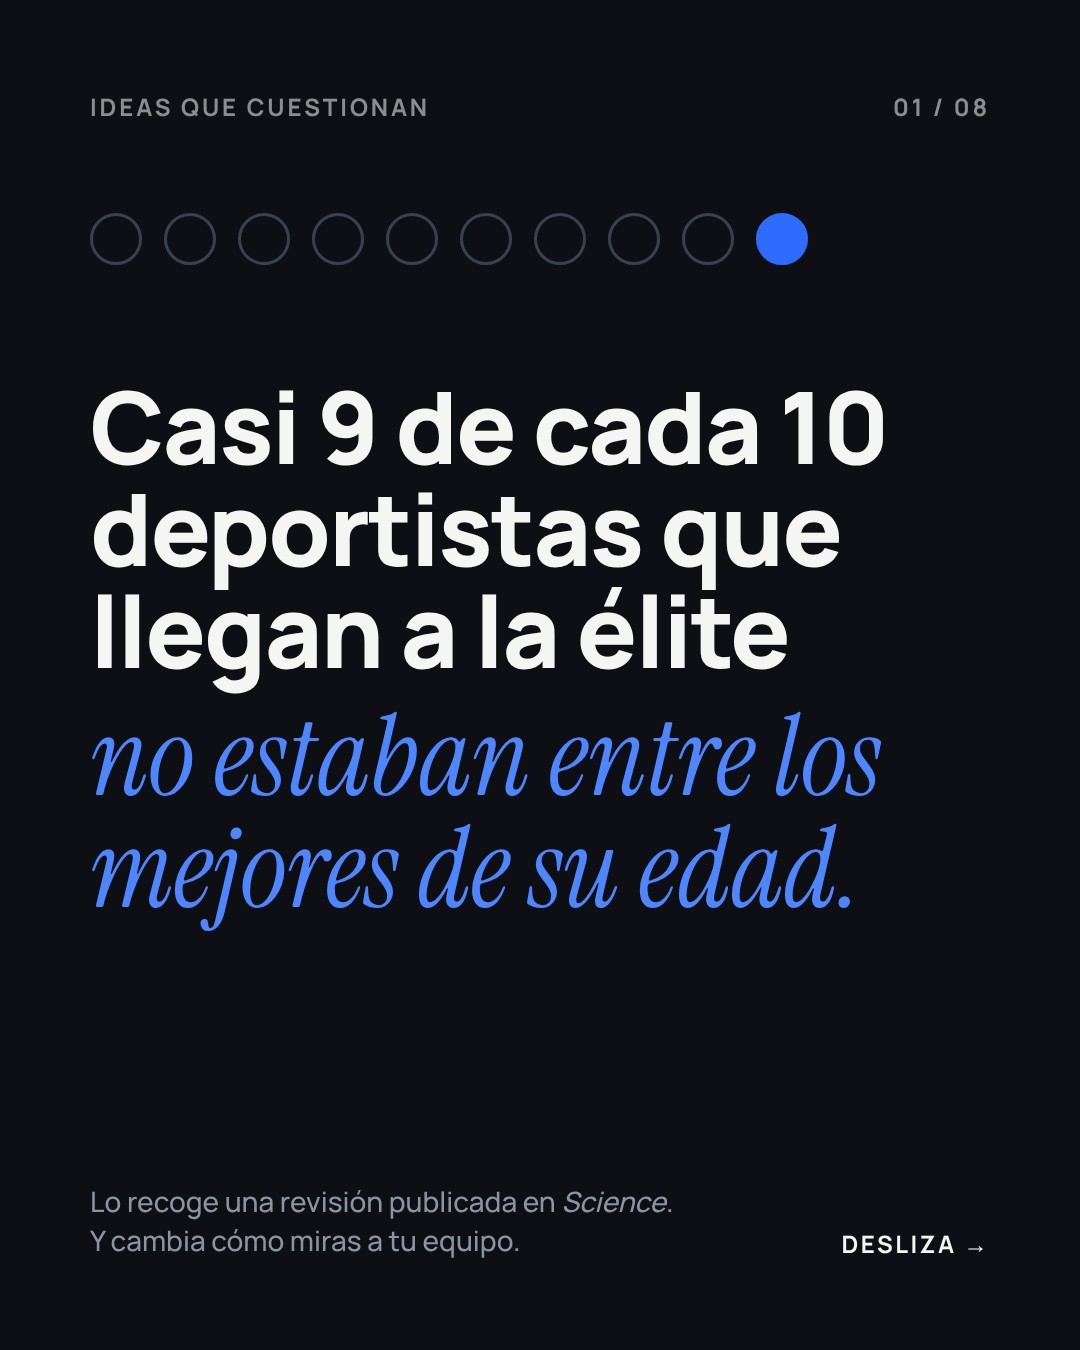
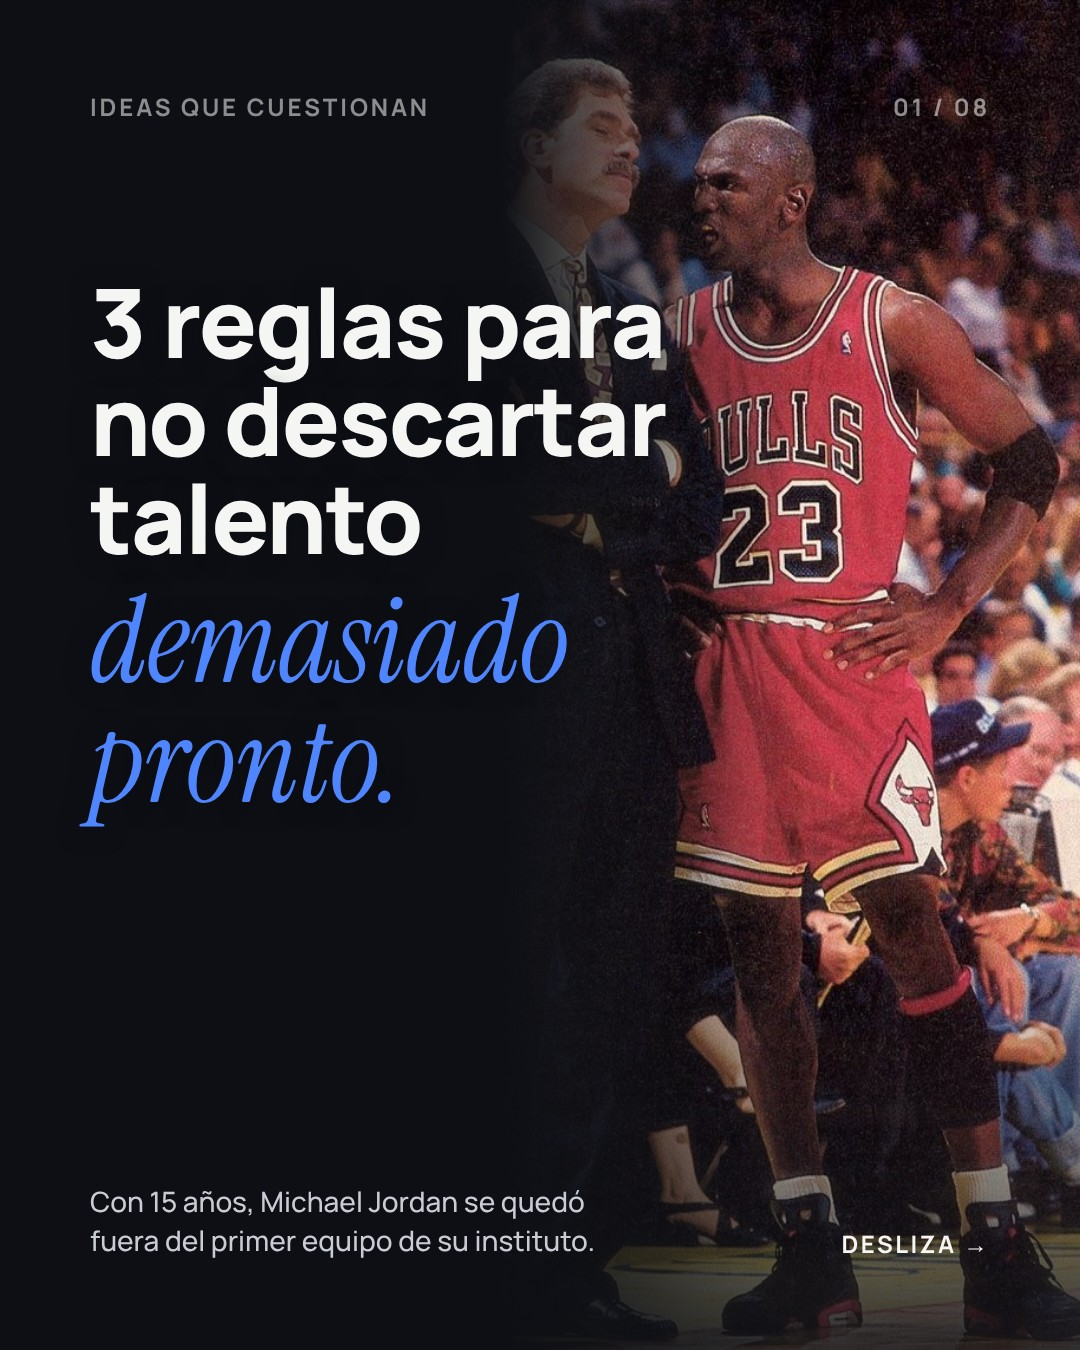
Clara (04): c09 con el plan de alcance de Biel (portada Jordan, 8 palabras, resumen para guardar; Andrés 84/100) y Stories con pregunta directa

diff --git a/tools/carrusel09/index.html b/tools/carrusel09/index.html
@@ -46,14 +46,14 @@ p.b{font-weight:500;font-size:34px;line-height:1.38}
 </style></head><body>
 
 <!-- 1 HOOK -->
-<div class="s dark"><div class="in">
+<div class="s dark">
+  <div style="position:absolute;right:0;top:0;width:580px;height:1350px;background:url(../../banco/fotos/PROTEAM_ENTRENADOR_REFERENTE_FOTO_006.jpg) 88% 0/auto 1350px no-repeat"></div>
+  <div style="position:absolute;right:0;top:0;width:580px;height:1350px;background:linear-gradient(90deg,var(--ink) 0%,rgba(13,15,20,.55) 22%,rgba(13,15,20,0) 50%),linear-gradient(0deg,rgba(13,15,20,.85) 0%,rgba(13,15,20,0) 30%)"></div>
+  <div class="in">
   <div class="top"><span>Ideas que cuestionan</span><span>01 / 08</span></div>
-  <div class="dots" style="margin-top:90px">
-    <div class="d"></div><div class="d"></div><div class="d"></div><div class="d"></div><div class="d"></div><div class="d"></div><div class="d"></div><div class="d"></div><div class="d"></div><div class="d f"></div>
-  </div>
-  <h1 style="font-size:100px;margin-top:110px">Casi 9 de cada 10 deportistas que llegan a la élite</h1>
-  <div class="sr" style="font-size:112px;line-height:1;margin-top:20px">no estaban entre los mejores de su edad.</div>
-  <div class="foot"><span style="font-weight:500;font-size:28px;line-height:1.4;color:#8d93a1">Lo recoge una revisión publicada en <i>Science</i>.<br>Y cambia cómo miras a tu equipo.</span><span style="font-weight:700;font-size:24px;letter-spacing:.1em;text-transform:uppercase;white-space:nowrap;margin-left:40px">Desliza →</span></div>
+  <h1 style="font-size:96px;margin-top:150px;width:640px;text-shadow:0 2px 24px rgba(13,15,20,.6)">3 reglas para no descartar talento</h1>
+  <div class="sr" style="font-size:120px;line-height:1;margin-top:14px;width:640px;text-shadow:0 2px 24px rgba(13,15,20,.6)">demasiado pronto.</div>
+  <div class="foot"><span style="font-weight:500;font-size:28px;line-height:1.4;color:#c9ccd4;width:560px">Con 15 años, Michael Jordan se quedó fuera del primer equipo de su instituto.</span><span style="font-weight:700;font-size:24px;letter-spacing:.1em;text-transform:uppercase;white-space:nowrap;margin-left:40px">Desliza →</span></div>
 </div></div>
 
 <!-- 2 CREENCIA -->
@@ -70,7 +70,7 @@ p.b{font-weight:500;font-size:34px;line-height:1.38}
     <div style="font-weight:700;font-size:22px;letter-spacing:.1em;text-transform:uppercase;color:#8a8d95;margin-top:10px">Minutos por jugador</div>
   </div>
   <p class="b" style="margin-top:auto">Por eso al que va por delante le damos más minutos, más balón y más atención. Y al que va por detrás, menos.</p>
-  <p class="b" style="margin-top:18px;font-weight:800;color:var(--ink)">Parece lógico. Los datos dicen otra cosa.</p>
+  <p class="b" style="margin-top:18px;font-weight:800;color:var(--ink)">Parece lógico. Pero casi 9 de cada 10 que llegan a la élite no eran los mejores de su edad.</p>
 </div></div>
 
 <!-- 3 DATO -->
@@ -129,8 +129,8 @@ p.b{font-weight:500;font-size:34px;line-height:1.38}
 
 <!-- 7 HERRAMIENTA -->
 <div class="s dark"><div class="in">
-  <div class="top"><span class="k">Tres cambios · guárdalo</span><span>07 / 08</span></div>
-  <h2 style="font-size:80px;margin-top:60px">Para esta temporada, en tu</h2>
+  <div class="top"><span class="k">Las 3 reglas · guárdalo</span><span>07 / 08</span></div>
+  <h2 style="font-size:80px;margin-top:60px">Para aplicar desde mañana en tu</h2>
   <div class="sr" style="font-size:100px;line-height:1">equipo.</div>
   <div style="margin-top:auto">
     <div class="row"><div class="no">01</div><div class="l">Mide la evolución, no solo el nivel.</div><div class="e">Apunta cómo estaba cada jugador en septiembre y compáralo en enero. El que más ha mejorado también es noticia.</div></div>
@@ -142,12 +142,14 @@ p.b{font-weight:500;font-size:34px;line-height:1.38}
 <!-- 8 CIERRE -->
 <div class="s paper"><div class="in">
   <div class="top"><span>Ideas que cuestionan</span><span>08 / 08</span></div>
-  <h2 style="font-size:96px;margin-top:120px">Tu trabajo no es adivinar quién llegará.</h2>
-  <div class="sr" style="font-size:112px;line-height:1.02;margin-top:30px">Es que nadie se quede fuera antes de tiempo.</div>
-  <div style="margin-top:auto;border:3px solid var(--blue);border-radius:28px;padding:38px 44px">
-    <div style="font-weight:800;font-size:38px;line-height:1.25">Mándaselo a quien hace los equipos en tu club.</div>
-    <div style="font-weight:500;font-size:28px;color:#5a5e68;margin-top:12px;line-height:1.4">Para que la próxima vez que reparta minutos piense también en el que va por detrás.</div>
+  <h2 style="font-size:84px;margin-top:70px">Tu trabajo no es adivinar quién llegará.</h2>
+  <div class="sr" style="font-size:96px;line-height:1.02;margin-top:20px">Es que nadie se quede fuera antes de tiempo.</div>
+  <div style="margin-top:auto">
+    <div class="row" style="padding:22px 0"><div class="no">01</div><div class="l" style="font-size:36px">Mide la evolución, no solo el nivel.</div></div>
+    <div class="row" style="padding:22px 0"><div class="no">02</div><div class="l" style="font-size:36px">Da minutos con intención.</div></div>
+    <div class="row" style="padding:22px 0;border-bottom:2px solid #d9d7cf"><div class="no">03</div><div class="l" style="font-size:36px">No compitas con otros deportes.</div></div>
   </div>
+  <div style="margin-top:40px;border:3px solid var(--blue);border-radius:28px;padding:30px 40px;font-weight:800;font-size:36px;line-height:1.25">Guárdalo y mándaselo a tu cuerpo técnico.</div>
 </div></div>
 
 </body></html>

diff --git a/tools/stories1116/b.html b/tools/stories1116/b.html
@@ -1,14 +1,14 @@
 <!doctype html><html lang="es"><head><meta charset="utf-8"><link rel="stylesheet" href="base.css"></head><body>
 <div class="s dark"><div class="in">
 <div class="k">Pequeños cambios</div>
-<h1 style="font-size:120px;margin-top:70px">La regla de los</h1>
-<div class="sr" style="font-size:170px;line-height:.95">2 minutos.</div>
-<div class="sm" style="color:#c9ccd4;margin-top:60px">Antes de irte del campo, apunta tres líneas:</div>
-<div style="margin-top:40px">
+<h1 style="font-size:86px;margin-top:60px">¿Qué funcionó en tu último entreno?</h1>
+<div class="sr" style="font-size:100px;line-height:1;margin-top:10px">Apúntalo en 2 minutos.</div>
+<div class="sm" style="color:#c9ccd4;margin-top:40px">Antes de irte del campo, tres líneas:</div>
+<div style="margin-top:24px">
 <div class="ln"><div class="n">1</div><div class="t">Qué ha funcionado.</div></div>
 <div class="ln"><div class="n">2</div><div class="t">Qué no.</div></div>
 <div class="ln" style="border-bottom:2px solid #262b36"><div class="n">3</div><div class="t">Qué toca el próximo día.</div></div>
 </div>
 <div style="margin-top:auto"><div class="sr" style="font-size:84px;line-height:1.05">El lunes no te acordarás.<br>Hoy, sí.</div>
-<div class="sm" style="color:#8d93a1;margin-top:26px">Haz captura y pruébalo esta semana.</div></div>
+<div class="sm" style="color:#8d93a1;margin-top:26px">Haz captura y pruébalo en el próximo entreno.</div></div>
 </div></div></body></html>

diff --git a/tools/stories1116/c.html b/tools/stories1116/c.html
@@ -1,9 +1,10 @@
 <!doctype html><html lang="es"><head><meta charset="utf-8"><link rel="stylesheet" href="base.css"></head><body>
 <div class="s dark"><div class="in">
 <div class="k">Lo que no se ve</div>
-<h1 style="font-size:104px;margin-top:70px">Planificar.<br>Apuntar.<br>Revisar.</h1>
-<div class="sr" style="font-size:140px;line-height:1;margin-top:16px">También es entrenar.</div>
-<div class="sm" style="color:#c9ccd4;margin-top:50px">Lo que haces fuera del campo merece un sitio. Para eso estamos haciendo la app de ProTeam.</div>
+<div style="font-weight:800;font-size:56px;line-height:1.15;margin-top:50px">¿Cuántas horas entrenas fuera del campo?</div>
+<h1 style="font-size:96px;margin-top:50px">Planificar. Apuntar. Revisar.</h1>
+<div class="sr" style="font-size:130px;line-height:1;margin-top:10px">También es entrenar.</div>
+<div class="sm" style="color:#c9ccd4;margin-top:40px">Lo que haces fuera del campo merece un sitio. Para eso estamos haciendo la app de ProTeam.</div>
 <div style="margin-top:auto;border:3px solid #2f6bff;border-radius:30px;padding:44px 48px">
 <div style="font-weight:800;font-size:30px;letter-spacing:.14em;color:#4f86ff">QUEDAN 11 DÍAS</div>
 <div style="font-weight:800;font-size:50px;line-height:1.15;margin-top:16px">Lista de espera hasta el 28 nov.</div>

diff --git a/tools/stories1116/base.css b/tools/stories1116/base.css
@@ -12,6 +12,6 @@ h1{font-weight:800;letter-spacing:-.02em;line-height:1.04}
 .op{display:flex;align-items:center;gap:30px;padding:24px 34px;border-radius:26px;background:#fff;margin-bottom:20px}
 .op b{width:72px;height:72px;border-radius:50%;background:#0d0f14;color:#fff;display:flex;align-items:center;justify-content:center;font-weight:800;font-size:34px;flex:none}
 .op span{font-weight:700;font-size:40px}
-.ln{display:grid;grid-template-columns:90px 1fr;padding:34px 0;border-top:2px solid #262b36;align-items:baseline}
-.ln .n{font-weight:800;font-size:44px;color:#4f86ff}.ln .t{font-weight:800;font-size:52px}
+.ln{display:grid;grid-template-columns:90px 1fr;padding:26px 0;border-top:2px solid #262b36;align-items:baseline}
+.ln .n{font-weight:800;font-size:44px;color:#4f86ff}.ln .t{font-weight:800;font-size:48px}
 .sm{font-weight:500;font-size:34px;line-height:1.4}

diff --git a/agencia/carruseles/2026-11-16-los-que-llegan-tarde.md b/agencia/carruseles/2026-11-16-los-que-llegan-tarde.md
@@ -9,9 +9,10 @@
 - **Idea central:** casi 9 de cada 10 internacionales absolutos no lo fueron de jóvenes; tu trabajo no es adivinar quién llegará, sino que nadie se quede fuera antes de tiempo.
 - **Enfoque narrativo:** creencia cuestionada → dato → qué hicieron distinto → por qué (hipótesis) → caso → herramienta → cierre. Distinto del diagnóstico de c08.
 - **Emoción:** sorpresa → responsabilidad.
-- **CTA:** compartir con quien hace los equipos del club.
+- **CTA:** guardar y mandar al cuerpo técnico.
 
 ## 2. Propuestas de hook
+0. **«3 reglas para no descartar talento demasiado pronto.»** — DEFINITIVA tras el plan de alcance de Biel (máx. 8 palabras, promesa usable mañana), sobre Michael Jordan con Phil Jackson + «Con 15 años, Michael Jordan se quedó fuera del primer equipo de su instituto» (Sports Illustrated, 2012). La 1 pasa a ser el giro de la diapositiva 2.
 1. **«Casi 9 de cada 10 deportistas que llegan a la élite no estaban entre los mejores de su edad.»** — recomendada: número concreto, fiel al estudio y con pregunta implícita (¿y los míos?).
 2. «Los mejores a los 14 y los mejores a los 25 casi nunca son los mismos.» — descartada: inventa edades.
 3. «El que hoy calienta banquillo puede ser el que llegue.» — emocional pero suena a frase de ánimo.
@@ -20,17 +21,17 @@
 ## 3. Estructura
 | # | Función | Texto exacto | Visual |
 |---|---|---|---|
-| 1 | Hook | Casi 9 de cada 10 deportistas que llegan a la élite *no estaban entre los mejores de su edad.* / Lo recoge una revisión publicada en Science. Y cambia cómo miras a tu equipo. / Desliza → | Oscuro, 10 puntos (1 azul) |
-| 2 | Creencia | «Si con 12 años ya destaca, *llegará.*» / Por eso al que va por delante le damos más minutos, más balón y más atención. Y al que va por detrás, menos. / Parece lógico. Los datos dicen otra cosa. | Papel, barras de minutos por dorsal |
+| 1 | Hook | 3 reglas para no descartar talento *demasiado pronto.* / Con 15 años, Michael Jordan se quedó fuera del primer equipo de su instituto. / Desliza → | Oscuro, Jordan y Phil Jackson a la derecha (banco, REFERENTE_006) |
+| 2 | Creencia | «Si con 12 años ya destaca, *llegará.*» / Por eso al que va por delante le damos más minutos, más balón y más atención. Y al que va por detrás, menos. / Parece lógico. Pero casi 9 de cada 10 que llegan a la élite no eran los mejores de su edad. | Papel, barras de minutos por dorsal |
 | 3 | Dato | Internacionales de jóvenes / de adultos (10+10 puntos, uno compartido) / Apenas uno de cada diez *está en los dos grupos.* / Y el 82 % de los que fueron internacionales de jóvenes nunca lo fue de adulto. / Fuente | Oscuro, diagrama |
 | 4 | Revelación | ¿Qué hicieron *distinto?* 01 Hicieron otros deportes (dos más de media durante nueve años) · 02 Empezaron más tarde · 03 Mejoraron poco a poco | Papel, lista |
 | 5 | Por qué | Destacar pronto no es lo mismo que *llegar lejos.* + tres hipótesis de los autores (encajar, aprender a aprender, menos quemarse/lesionarse) | Oscuro |
 | 6 | Caso | A Jamie Vardy le dijeron que no a los 16. 16 · 19 · 25 · 29 años / *Llegó tarde. Pero llegó.* | Papel, línea de edades |
-| 7 | Herramienta | Tres cambios · guárdalo: mide la evolución, no solo el nivel · da minutos con intención · no compitas con otros deportes | Oscuro, lista |
-| 8 | Cierre + CTA | Tu trabajo no es adivinar quién llegará. *Es que nadie se quede fuera antes de tiempo.* / Mándaselo a quien hace los equipos en tu club. | Papel, CTA en marco azul |
+| 7 | Herramienta | Las 3 reglas · guárdalo. Para aplicar desde mañana en tu *equipo.* mide la evolución, no solo el nivel · da minutos con intención · no compitas con otros deportes | Oscuro, lista |
+| 8 | Cierre + CTA | Tu trabajo no es adivinar quién llegará. *Es que nadie se quede fuera antes de tiempo.* / resumen 01–03 / Guárdalo y mándaselo a tu cuerpo técnico. | Papel, CTA en marco azul |
 
 ## 4. Dirección visual
-Tipográfica y de diagramas (sin fotos: no hay ninguna de Vardy en el banco y Commons no es accesible desde el turno). Alterna oscuro/papel; Manrope 500/700/800 + Instrument Serif itálica azul; margen 90 px; numeración 01/08. Producción: `tools/carrusel09/index.html` + `render.py` → `feed/c09-1…8.jpg`.
+Portada con Jordan (único primer plano reconocible); el resto, tipográfico y de diagramas (no hay foto de Vardy en el banco y Commons no es accesible desde el turno). Alterna oscuro/papel; Manrope 500/700/800 + Instrument Serif itálica azul; margen 90 px; numeración 01/08. Producción: `tools/carrusel09/index.html` + `render.py` → `feed/c09-1…8.jpg`.
 
 ## 5. Copy del post
 En `queue.json` (id c09).
@@ -39,4 +40,5 @@ En `queue.json` (id c09).
 Hook ✔ · promesa clara ✔ · cada diapositiva aporta ✔ · progresión ✔ · útil (diapo 7) ✔ · lectura fácil ✔ · variedad visual ✔ · cierre responde al hook ✔ · CTA de compartir coherente con captación ✔ · distinto de c08 y del antiguo «efecto de la edad relativa» (aquí no se habla de fecha de nacimiento) ✔.
 - Güllich, Barth, Hambrick y Macnamara, *Science* (19/12/2025), doi 10.1126/science.adt7790 (nota de prensa RPTU y PDF del laboratorio de Purdue).
 - Jamie Vardy: Wikipedia y Leicester City FC.
-Críticas: `agencia/criticas/2026-11-16-c09-carrusel.md` (72 → 81) y `2026-11-16-c09-final.md` (82).
+- Michael Jordan: Sports Illustrated, «Did this man really cut Michael Jordan?» (16/01/2012).
+Críticas: `agencia/criticas/2026-11-16-c09-carrusel.md` (72 → 81) y `2026-11-16-c09-final.md` (82 → 84 con el plan de alcance).

diff --git a/agencia/criticas/2026-11-16-c09-final.md b/agencia/criticas/2026-11-16-c09-final.md
@@ -1,14 +1,19 @@
 # Crítica · MODO PREPUBLICACIÓN — Andrés (05), 16/11 10:20
 Revisadas con Read todas las diapositivas de `feed/c09-1…8.jpg` y las tres Stories de `stories/st-1116-*.jpg`. Comprobación automática: ningún elemento sale de la caja de 90 px (carrusel) ni de la zona segura 260–1600 px (Stories).
 
-## c09 · «Casi 9 de cada 10…» — SÍ, publicable · 82/100
-Hook 16/20 · Estrategia 13/15 · Narrativa 13/15 · Mensaje 12/15 · Originalidad 12/15 · Visual 8/10 · Comunidad 8/10.
+## Plan de alcance de Biel (instrucciones de 04 y 05 en la oficina, 16/11) — aplicado en una segunda vuelta
+La primera versión renderizada (82/100) **no pasaba** el filtro nuevo: titular de 15 palabras sin promesa usable, primer plano tipográfico (no se reconoce a nadie) y Stories 2 y 3 sin pregunta directa. Cambios: diapositiva 1 = «3 reglas para no descartar talento demasiado pronto.» (8 palabras) sobre Michael Jordan con Phil Jackson (banco, FOTO_REFERENTE_006) y la línea «Con 15 años, Michael Jordan se quedó fuera del primer equipo de su instituto» (Sports Illustrated, 2012: no entró en el varsity y jugó en el equipo júnior); el dato de Science pasa a la 2 como giro; la 7 se titula «Las 3 reglas · guárdalo»; la 8 resume las tres reglas y pide «Guárdalo y mándaselo a tu cuerpo técnico»; descripción con «Guárdalo» en la segunda línea; Stories 17:00 y 20:00 con pregunta directa.
+
+## c09 · «3 reglas para no descartar talento demasiado pronto» — SÍ, publicable · 84/100
+Filtro: hook entendible sin sonido en 1,5 s ✔ · motivo para guardar o enviar (las 3 reglas, resumidas en la 8) ✔ · primer plano reconocible (Jordan) ✔.
+**Riesgo de salto: bajo** — cara muy reconocible + promesa concreta de 8 palabras; el único riesgo es que «talento» suene a cantera de élite y no a base.
+Hook 17/20 · Estrategia 14/15 · Narrativa 13/15 · Mensaje 12/15 · Originalidad 12/15 · Visual 8/10 · Comunidad 8/10.
 - Corregido en el render: la 3 tenía un hueco vacío en el centro (puntos más grandes, línea que une los dos grupos), el SVG se salía 100 px del margen (ajustado a 900), «Solo uno de cada diez» → «Apenas uno de cada diez» (el estudio dice «casi el 90 %»), la 4 quedaba vacía abajo (filas más grandes), «Nadie le vio llegar a los 16» → «Llegó tarde. Pero llegó.» (lo primero no se puede comprobar).
 - Lo mejor: la 1 se entiende sin deslizar y los 10 puntos anticipan el dato; la 3 dibuja el número en vez de repetirlo; la 7 es guardable.
-- Lo flojo que queda: la 2 es la más débil visualmente (barras genéricas) y la 7 tiene un titular de transición («Para esta temporada, en tu equipo»). No bloquea.
-- Credibilidad: todos los números con fuente en la diapositiva; la explicación marcada como hipótesis de los autores. Sin fotos de personas (el banco no tiene a Vardy y Commons no responde desde este turno): no se incumple la regla de personas reconocibles.
+- Lo flojo que queda: la 2 es la más débil visualmente (barras genéricas) y la foto de Jordan es antigua y de baja resolución (aguanta a 580 px de ancho). No bloquea.
+- Credibilidad: todos los números con fuente en la diapositiva; la explicación marcada como hipótesis de los autores. Jordan (portada) como ejemplo, nunca como aval; Vardy sin foto (no está en el banco y Commons no responde desde este turno).
 
 ## Stories (corrección de Biel: fidelizar y crear marca, no avisar de Reels)
-- **c08s · La pregunta del entrenador (13:00) — 80/100, SÍ.** Pregunta real con cuatro opciones que el entrenador reconoce y una promesa que sí cumpliremos (carrusel con la más votada). Riesgo: sin encuesta nativa (la API no la permite), la respuesta por mensaje pide más esfuerzo.
-- **c09s · La regla de los 2 minutos (17:00) — 81/100, SÍ.** Valor inmediato, se hace captura. Cierre «El lunes no te acordarás. Hoy, sí.» con fuerza.
-- **c09s2 · También es entrenar (20:00) — 77/100, SÍ.** Pieza de marca con cuenta atrás (quedan 11 días). La más «anuncio» de las tres, pero dice algo de la marca y la oferta es la de MARCA.md. Si Biel no quiere ninguna oferta en Stories, es la que hay que tocar.
+- **c08s · La pregunta del entrenador (13:00) — 80/100, SÍ.** Riesgo de salto: medio (fondo papel sin imagen). Pregunta real con cuatro opciones que el entrenador reconoce y una promesa que sí cumpliremos (carrusel con la más votada). Riesgo: sin encuesta nativa (la API no la permite), la respuesta por mensaje pide más esfuerzo.
+- **c09s · «¿Qué funcionó en tu último entreno? Apúntalo en 2 minutos.» (17:00) — 81/100, SÍ.** Riesgo de salto: medio. Pregunta directa + valor inmediato, se hace captura. Cierre «El lunes no te acordarás. Hoy, sí.» con fuerza.
+- **c09s2 · «¿Cuántas horas entrenas fuera del campo?» También es entrenar (20:00) — 77/100, SÍ.** Riesgo de salto: alto (la más publicitaria). Pieza de marca con cuenta atrás (quedan 11 días). La más «anuncio» de las tres, pero dice algo de la marca y la oferta es la de MARCA.md. Si Biel no quiere ninguna oferta en Stories, es la que hay que tocar.

diff --git a/agencia/HISTORIAL.md b/agencia/HISTORIAL.md
@@ -21,13 +21,13 @@ collage a pantalla completa de entrenadores famosos (u01) · cuadrícula 3×3 (u
 |---|---|---|---|
 | ~~c08s~~ | ~~16/11 19:00~~ | ~~Reel u03~~ | Retirada por Biel (16/11): las Stories no avisan de Reels; fidelizan y crean marca |
 | c08s | 16/11 13:00 | comunidad (respuesta por mensaje) | La pregunta del entrenador: ¿qué te cuesta más apuntar? A asistencia · B cansancio · C último partido · D correcciones. La más votada será carrusel esta semana. 80/100 |
-| c09s | 16/11 17:00 | valor | Pequeños cambios: la regla de los 2 minutos (3 líneas antes de irte del campo). 81/100 |
-| c09s2 | 16/11 20:00 | marca + lista de espera | «Planificar. Apuntar. Revisar. También es entrenar.» + quedan 11 días · 3 meses gratis. 77/100 |
+| c09s | 16/11 17:00 | valor | Pequeños cambios: «¿Qué funcionó en tu último entreno? Apúntalo en 2 minutos» (3 líneas antes de irte del campo). 81/100 |
+| c09s2 | 16/11 20:00 | marca + lista de espera | «¿Cuántas horas entrenas fuera del campo?» + «Planificar. Apuntar. Revisar. También es entrenar.» + quedan 11 días · 3 meses gratis. 77/100 |
 
 ## Carruseles (Agente 04)
 | id | fecha | titular (diapo 1) | línea editorial | objetivo | estructura | tema | CTA | enfoque visual |
 |---|---|---|---|---|---|---|---|---|
 | c08 | 16/11 11:00 | Si mañana no puedes ir al entreno, ¿alguien sabría qué toca? | La realidad del entrenador | identificación | diagnóstico (3 señales) → causa → caso real (Kerr/Walton 39–4, AP) → herramienta (hoja de relevo) → cierre | el equipo depende de la cabeza del entrenador (plan, asistencia, correcciones) | compartir con el segundo entrenador + hacer la prueba | notificación, chat «¿Qué hacemos hoy?», cuadrícula de asistencia con «?», lista «solo en tu cabeza», 3 líneas que convergen, Kerr + 39–4, formulario «hoja de relevo». **Crítica 83/100** (texto 74→82) |
-| c09 | 16/11 19:00 | Casi 9 de cada 10 deportistas que llegan a la élite no estaban entre los mejores de su edad | Ideas que cuestionan | captación | creencia → dato → qué hicieron distinto → por qué (hipótesis) → caso Vardy → 3 cambios → cierre | destacar de joven no predice llegar; repartir minutos y atención | compartir con quien hace los equipos | tipográfico: 10 puntos, barras de minutos, dos filas de puntos con uno compartido, línea de edades de Vardy, listas. Fuente: Science (dic. 2025). **Crítica 82/100** (texto 72→81) |
+| c09 | 16/11 19:00 | 3 reglas para no descartar talento demasiado pronto | Ideas que cuestionan | captación | promesa (3 reglas) + Jordan → creencia → dato → qué hicieron distinto → por qué (hipótesis) → caso Vardy → 3 cambios → cierre | destacar de joven no predice llegar; repartir minutos y atención | compartir con quien hace los equipos | Jordan y Phil Jackson en portada (Jordan fuera del primer equipo de su instituto a los 15, SI 2012), barras de minutos, dos filas de puntos con uno compartido, línea de edades de Vardy, listas. Fuente: Science (dic. 2025). **Crítica 84/100** (texto 72→81; render 82→84 con el plan de alcance) |
 
 Carruseles antiguos (formato anterior, ya publicados): Lo que dicen los datos #1 córners · #2 penaltis · #3 efecto de la edad relativa · Pregunta de la semana 1.
